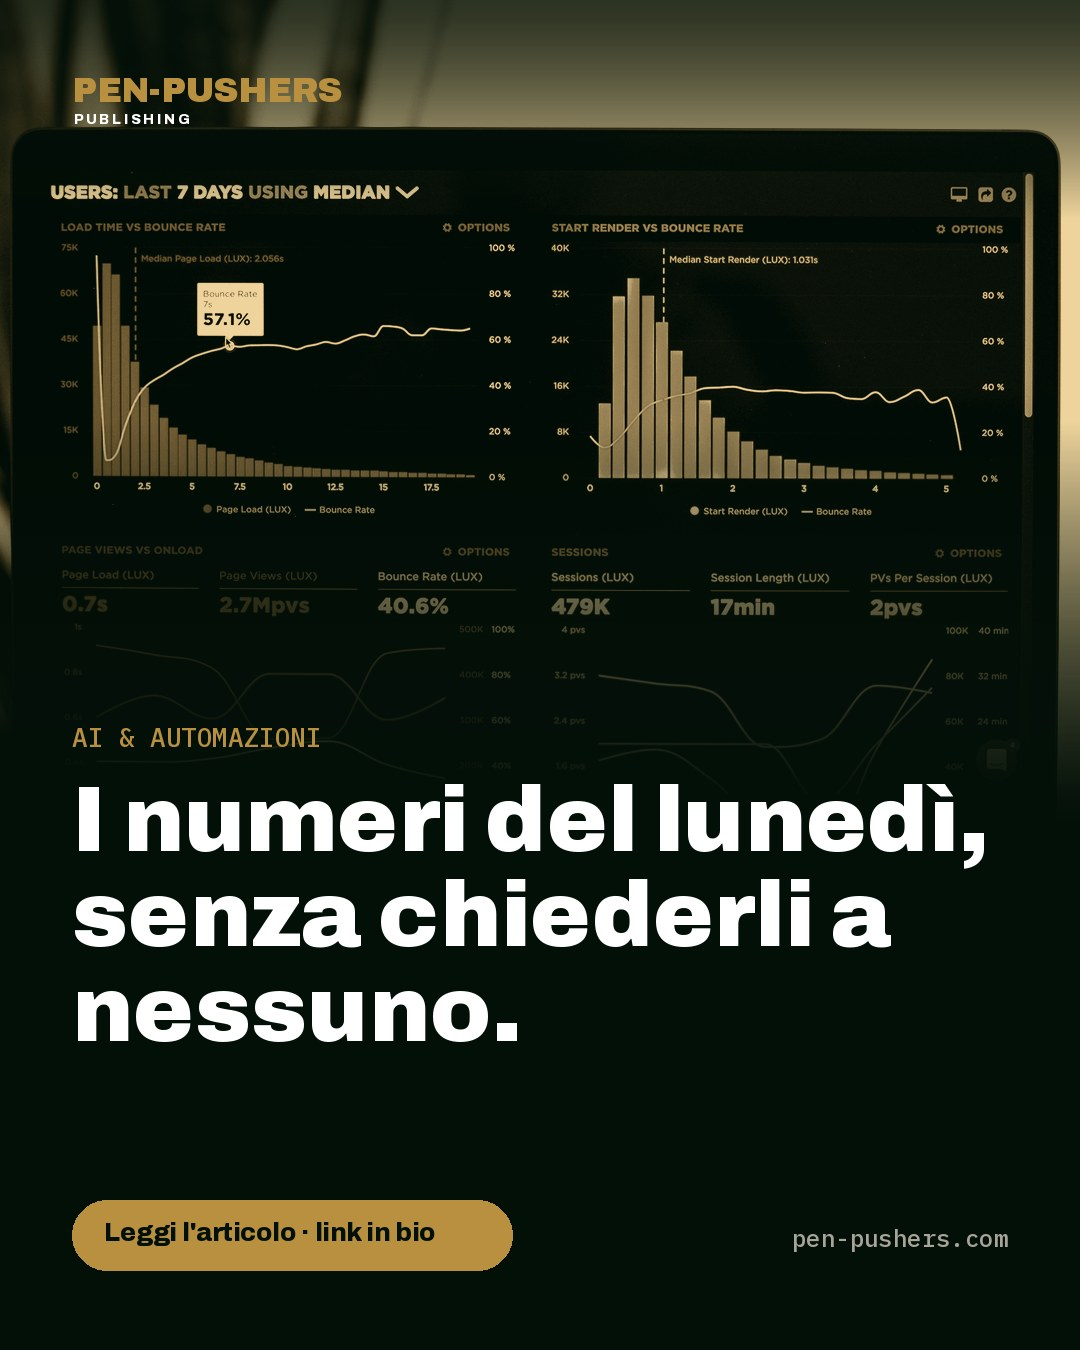
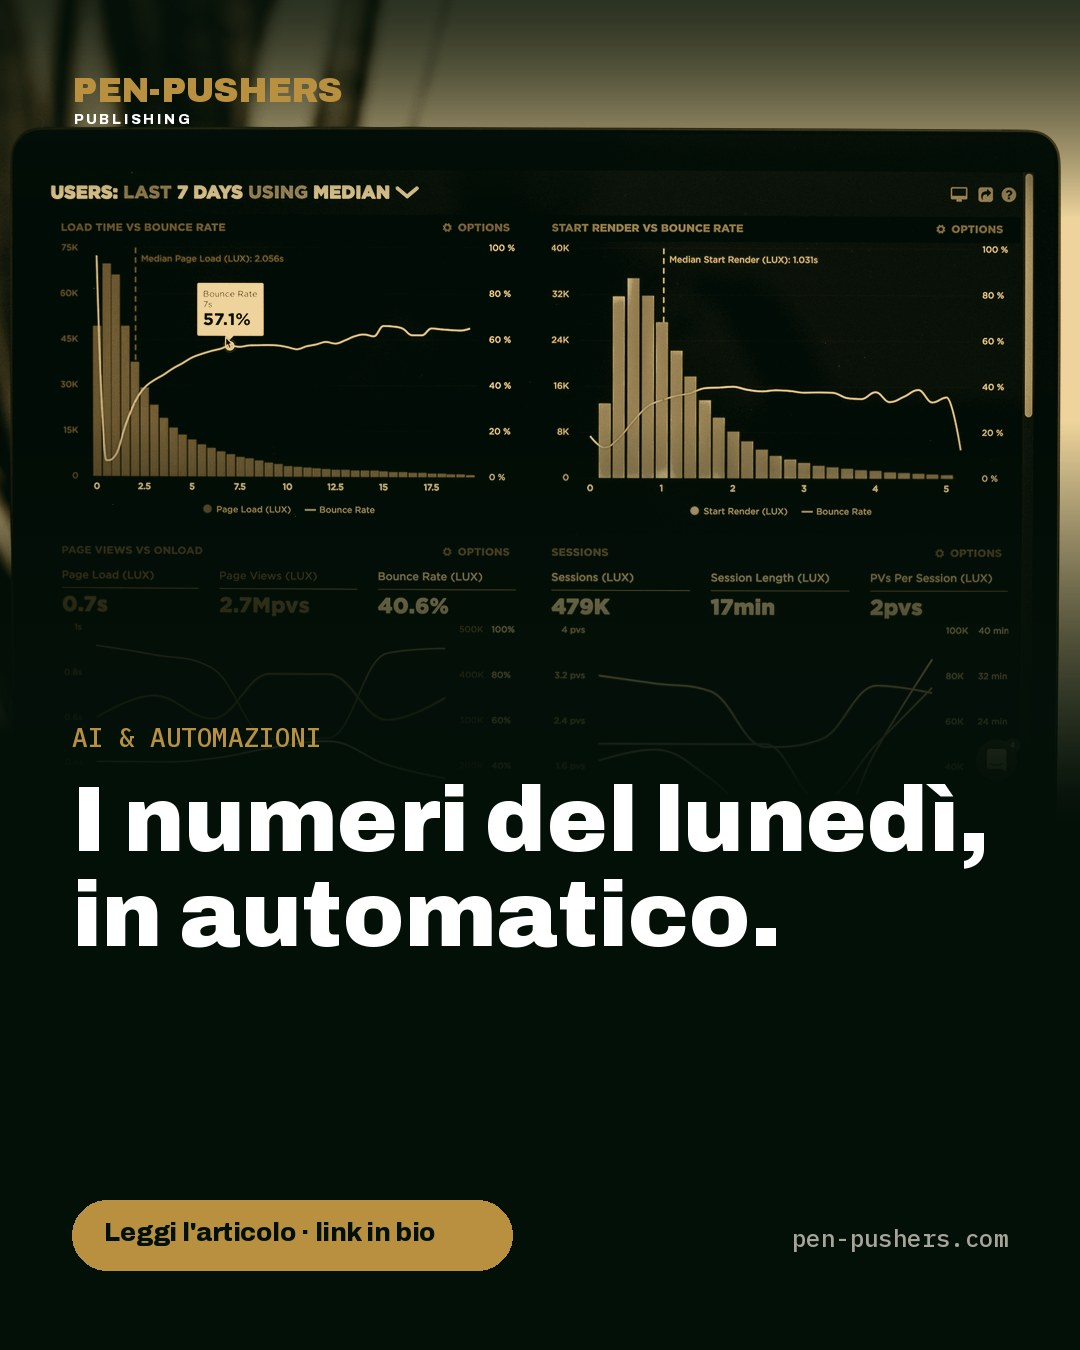
Insights 2026-11-12: nuova foto e hook per il report settimanale
Claude-Session: https://claude.ai/code/session_01JVCyArEc1uNrAYZVZumHQ3

Changed region(s): [[0.0611, 0.6533, 0.825, 0.7778]]

diff --git a/report-settimanale-automatico-titolare-quali-dati-raccogliere.html b/report-settimanale-automatico-titolare-quali-dati-raccogliere.html
@@ -144,7 +144,7 @@
       <div class="byline mono"><span>Di Manuel Ruisi</span><span><time datetime="2026-11-12">12 novembre 2026</time></span><span>5 min di lettura</span></div>
     </header>
     <img class="art-cover rise d2" src="/insights/img/covers/report-settimanale-automatico-titolare-quali-dati-raccogliere.jpg" alt="Report settimanale automatico per il titolare: quali dati raccogliere e come" width="1200" height="630">
-    <p class="credit mono">Foto di <a href="https://unsplash.com/photos/graphs-of-performance-analytics-on-a-laptop-screen-JKUTrJ4vK00" rel="noopener" target="_blank">Luke Chesser</a> su Unsplash</p>
+    <p class="credit mono">Foto di <a href="https://unsplash.com/photos/a-man-standing-in-an-office-looking-at-a-tablet-qKOfsX8YQTE" rel="noopener" target="_blank">The Jopwell Collection</a> su Unsplash</p>
     <article class="body">
 <h2>Il problema: i numeri ci sono, ma il titolare non li vede</h2>
 <p>Il titolare di un'azienda di climatizzazione e manutenzione, con dodici tecnici, il lunedì mattina vorrebbe sapere poche cose: quante richieste sono arrivate la settimana scorsa, quanti preventivi sono partiti, quanti sono stati accettati, quali interventi sono rimasti indietro. Le informazioni esistono tutte, ma sono sparse: le richieste nella casella email, i preventivi nel gestionale, gli interventi nel foglio dei tecnici, le chiamate sul telefono dell'ufficio.</p>
